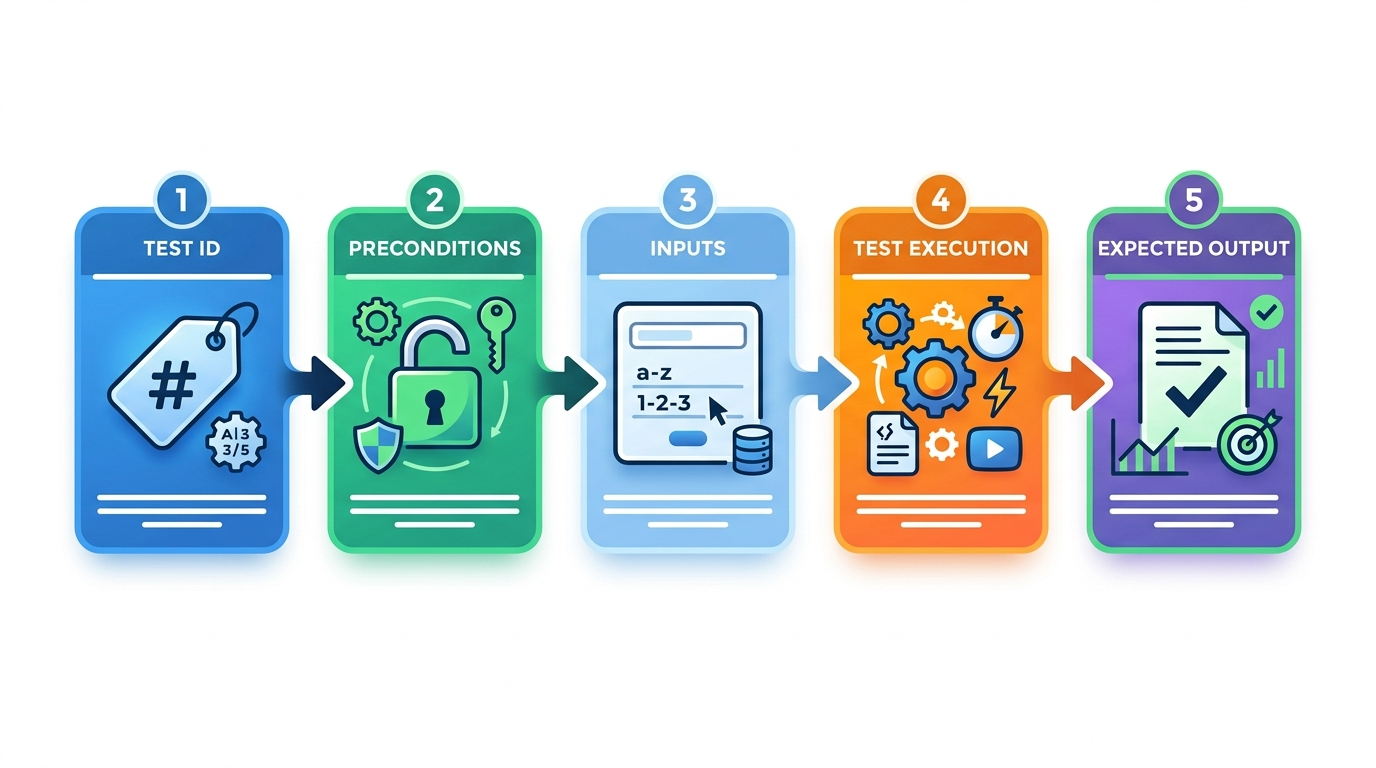
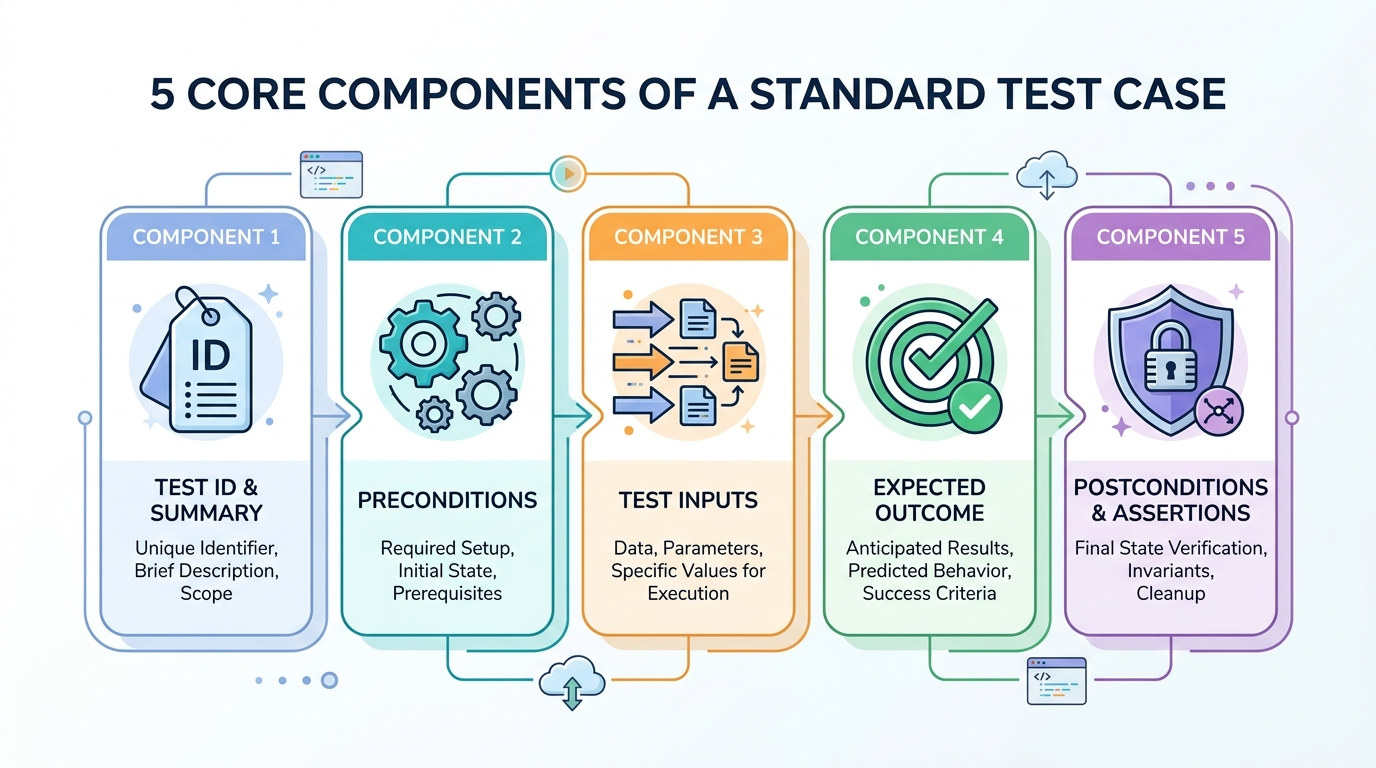
feat(ch03): overhaul 7 target visual blocks with AI concept diagrams and detailed text explanations

diff --git a/Lecture/ch03_testing.md b/Lecture/ch03_testing.md
@@ -23,11 +23,12 @@
 
 ### 3.1.1 契約式設計的三大核心要素 (Bertrand Meyer)
 
-```
-        ┌── 前置條件 (Preconditions): 呼叫者必須滿足的條件 (若不滿足，方法拒絕執行)
-契約設計 ┼── 後置條件 (Postconditions): 方法執行完畢後保證達成的狀態
-        └── 類別不變量 (Class Invariants): 物件在任何公開方法執行前後必須永遠為真的法則
-```
+<img src="../img/ch02/gemini_nb/design_by_contract_simplified.jpg" width="650">
+
+**圖形解說：Bertrand Meyer 契約式設計 (DbC) 三大核心法則**
+1.  **Preconditions (前置條件 - `requires`)**：呼叫者 (Caller) 必須滿足的條件；若不滿足，被呼叫的方法有權直接拒絕執行。
+2.  **Postconditions (後置條件 - `ensures`)**：方法正常執行完畢後，向呼叫者保證達成的狀態與輸出結果。
+3.  **Class Invariants (類別不變量 - `maintains`)**：物件在任何公開方法調用前後，必須永遠維持為真的核心業務法則（如 `balance >= 0`）。
 
 * **狀態不變量 (Invariants) 的重要性**：
   * *例如銀行帳戶*：`balance >= 0`、`totalDeposits == sum(transactions)`。
@@ -77,6 +78,17 @@ D) 異常防護 (Exceptions)
 > 4. **IEEE 829 / ISO 29119**：Software and System Test Documentation Standard
 
 國際軟體測試認證委員會（ISTQB）規範了軟體測試的 **7 大核心原則**，這是每一位專業軟體工程師與 QA 架構師的思維基石：
+
+<img src="../img/ch03/gemini_nb/istqb_seven_principles.jpg" width="650">
+
+**圖形解說：ISTQB 軟體測試 7 大經典原則總覽**
+1.  **1. Testing shows the presence of defects (測試顯示缺陷的存在)**：測試能證明有錯，無法證明軟體絕對無錯。
+2.  **2. Exhaustive testing is impossible (窮盡測試是不可能的)**：輸入組合呈指數級爆炸，測試必須基於風險進行關鍵取樣。
+3.  **3. Early testing saves time and money (及早測試 / 測試左移)**：在需求與架構階段抓錯，成本只有生產環境的百分之一 (1:10:100 定律)。
+4.  **4. Defects cluster together (缺陷群聚效應)**：80% 的重大 Bug 往往集中在 20% 最複雜的模組中。
+5.  **5. Beware of the pesticide paradox (小心殺蟲劑悖論)**：同一套測試反覆跑久了會產生抗藥性，必須定期更新並引入隨機/屬性測試。
+6.  **6. Testing is context dependent (測試取決於上下文)**：航太醫療需要嚴格形式化驗證，敏捷 Web 側重快速 CI/CD 回歸與壓測。
+7.  **7. Absence-of-errors fallacy (無錯謬誤)**：零語法錯誤不等於成功的系統，不符真實業務與使用者需求的軟體依然是失敗的。
 
 ---
 
@@ -197,15 +209,15 @@ D) 這是硬體浮點數運算器的製造缺陷
 
 ### 1. 驗證 (Verification) vs 確認 (Validation)
 
-```mermaid
-graph LR
-    Spec["規格需求書 (SRS)"] -->|實作| Code["程式碼產物"]
-    Code -->|Verification 驗證| Spec
-    User["使用者真實需求"] -->|Validation 確認| Code
-```
+<img src="../img/ch03/gemini_nb/verification_vs_validation.jpg" width="650">
 
-* **Verification**：*Are we building the product right?* 確保程式碼符合設計與規格。
-* **Validation**：*Are we building the right product?* 確保軟體真正解決使用者痛點。
+**圖形解說：Verification（驗證）與 Validation（確認）之核心差異**
+*   **【左側】Verification (驗證)**：
+    *   *關鍵提問*：**「Are we building the product right?（我們是否正確地建造軟體？）」**
+    *   *目標*：確保程式碼與架構嚴格符合設計圖、SRS 規格書與編碼規範（製程導向）。
+*   **【右側】Validation (確認)**：
+    *   *關鍵提問*：**「Are we building the right product?（我們是否建造了正確的軟體？）」**
+    *   *目標*：確保軟體交付後真正切中使用者痛點、滿足業務目標與商業價值（產品導向）。
 
 
 
@@ -225,20 +237,24 @@ graph LR
 
 ### 4. 功能測試（黑箱） vs 結構測試（白箱）
 
-<img src="../img/ch03/gemini_nb/blackbox_whitebox.jpg" width="550">
+<img src="../img/ch03/gemini_nb/blackbox_vs_whitebox_testing.jpg" width="650">
 
-* **黑箱測試 (Black-box)**：依據需求規格設計測資，不看內部實作。
-* **白箱測試 (White-box)**：依據程式內部邏輯分支、路徑設計測資。
+**圖形解說：黑箱測試 (Black-Box) vs 白箱測試 (White-Box)**
+*   **【左側】黑箱測試 (Black-Box Testing - 規格導向)**：
+    *   受測系統為不透明的黑盒子，測試人員不檢視內部程式碼，僅依據需求規格 (SRS) 與邊界設計輸入 (Inputs)，驗證輸出 (Outputs) 是否符合預期。
+*   **【右側】白箱測試 (White-Box Testing - 結構導向)**：
+    *   受測系統為透明的玻璃盒子，測試人員檢視內部程式邏輯，依據陳述句 (Statements)、分支 (Branches)、條件 (Conditions) 與路徑 (Paths) 設計測資，追求高程式碼覆蓋率。
 
 ---
 
 ### 5. 測試層級：單元、整合與系統測試
 
-<img src="../img/ch03/gemini_nb/testing_levels.jpg" width="550">
+<img src="../img/ch03/gemini_nb/testing_levels_hierarchy.jpg" width="650">
 
-* **單元測試 (Unit Test)**：針對最小可測試單元（Class / Method）進行邏輯驗證。
-* **整合測試 (Integration Test)**：驗證模組與模組、服務與資料庫之間的介面與協定。
-* **系統測試 (System Test)**：在真實或模擬環境中進行端到端整體運作驗證。
+**圖形解說：三大核心測試層級**
+1.  **1. Unit Testing (單元測試)**：針對最小獨立模組或方法（Class/Method）進行隔離驗證，速度極快。
+2.  **2. Integration Testing (整合測試)**：驗證跨模組介面、微服務 API 與資料庫之間的通訊協定與資料傳遞。
+3.  **3. System Testing (系統測試)**：在完整模擬或真實環境中執行端到端 (E2E) 使用者工作流程與非功能需求驗證。
 
 #### 💡 單元模組的可測試性 (Testability)
 模組設計應遵循「邏輯與 UI 分離」：
@@ -265,20 +281,13 @@ double div(double x, double y) {
 
 ### 6. 現代測試金字塔 (The Practical Test Pyramid)
 
-```
-                    / \
-                   / E2E \       <-- 端到端測試 (Playwright/Cypress) 成本高、速度慢
-                  /------- \
-                 / Service  \    <-- 整合/契約測試 (Pact/Testcontainers)
-                / Integration\
-               /--------------\
-              /   Unit Tests   \  <-- 單元測試 (JUnit 5/jqwik) 速度極快、數量最多
-             /__________________\
-```
+<img src="../img/ch03/gemini_nb/practical_test_pyramid.jpg" width="650">
 
-<img src="../img/ch03/gemini_nb/test_pyramid.png" width="450">
-
-* **反模式：冰淇淋甜筒 (Ice Cream Cone)**：缺乏單元測試，過度依賴脆弱且昂貴的 UI E2E 測試，導致 CI 構建緩慢且頻繁誤報。
+**圖形解說：Martin Fowler 現代實踐測試金字塔**
+*   **頂層：UI / E2E Tests (端到端測試)**：數量最少、執行最慢、維護成本最高（Playwright / Cypress）。
+*   **中層：Integration / Service Tests (整合與服務測試)**：數量與速度適中，驗證 API 與資料庫合約（Testcontainers / Pact）。
+*   **底層：Unit Tests (單元測試)**：數量最多、執行極快（毫秒級）、維護成本最低（JUnit 5 / Mockito）。
+*   **反模式：冰淇淋甜筒 (Ice Cream Cone)**：缺乏底層單元測試，過度依賴脆弱且昂貴的 UI E2E 測試，導致 CI 構建緩慢且頻繁誤報。
 
 ---
 
@@ -351,7 +360,14 @@ D) 靜態程式碼檢視 (Code Review)
 > 📌 **現代標準測試案例結構**：
 > $\text{Test Case} = [\text{ID}, \text{Preconditions}, \text{Inputs}, \text{Expected Output}, \text{Postconditions/Invariants}]$
 
-<img src="../img/ch03/gemini_nb/test_case_structure.jpg" width="550">
+<img src="../img/ch03/gemini_nb/test_case_structure.jpg" width="650">
+
+**圖形解說：現代標準測試案例五大核心構成要件 (Standard Test Case Anatomy)**
+1.  **Component 1: Test ID & Summary (識別碼與摘要)**：唯一編號（如 `TC-AUTH-001`）與簡明測試目的說明。
+2.  **Component 2: Preconditions (前置條件與環境)**：執行測試前系統必須處於的初始狀態（如特定登入身分、資料庫初始資料 Fixtures）。
+3.  **Component 3: Test Inputs (測試輸入資料)**：傳入受測方法的參數、HTTP Request Payload 或使用者操作事件。
+4.  **Component 4: Expected Outcome (預期結果與 Oracle)**：系統應回傳之正確值、HTTP 狀態碼或畫面渲染結果。
+5.  **Component 5: Postconditions & Assertions (後置條件與狀態斷言)**：執行後系統資料庫的狀態驗證、不變量檢查與測試後的環境復原 (Cleanup)。
 
 ---
 
